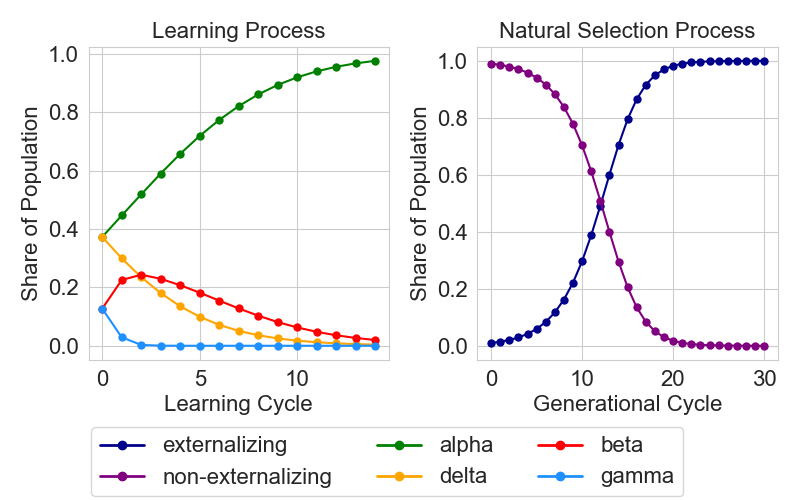
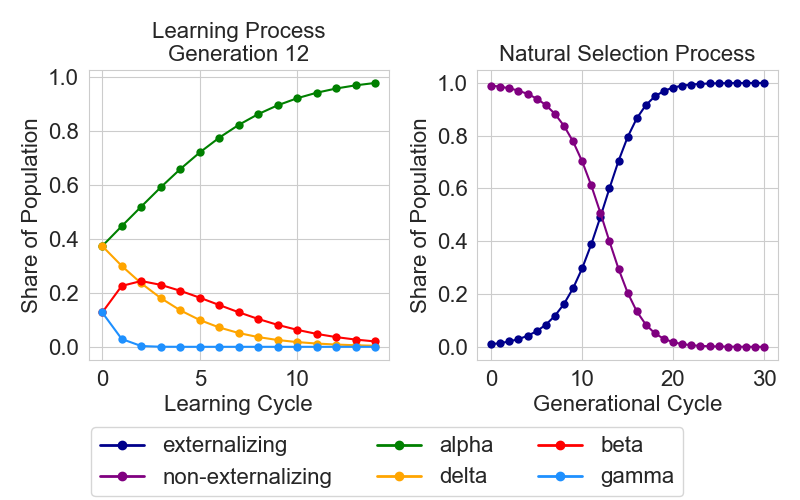
adjusted model 2 figures

Changed region(s): [[0.5, 0.03, 0.9688, 0.72], [0.0, 0.09, 0.5, 0.72], [0.0625, 0.66, 0.0938, 0.72]]

diff --git a/src/visualization_2.py b/src/visualization_2.py
@@ -1,25 +1,22 @@
-
 import pandas as pd
 import seaborn as sns
 import matplotlib.pyplot as plt
-from matplotlib.patches import Patch
 from matplotlib.lines import Line2D
 import os
-import model_2
 import re
 
 plt.rcParams.update({
-    'font.size': 16,  # Base font size
-    'axes.titlesize': 16,  # Title font size
-    'axes.labelsize': 16,  # Axis label font size
-    'xtick.labelsize': 16,  # X tick label font size
-    'ytick.labelsize': 16,  # Y tick label font size
-    'legend.fontsize': 16,  # Legend font size
+    'font.size': 16,
+    'axes.titlesize': 16,
+    'axes.labelsize': 16,
+    'xtick.labelsize': 16,
+    'ytick.labelsize': 16,
+    'legend.fontsize': 16,
 })
 
 COLOR_DICT = {
     "alpha": "green",
-    "beta": "red", 
+    "beta": "red",
     "gamma": "dodgerblue",
     "delta": "orange",
     "externalizers": "darkblue",
@@ -27,13 +24,10 @@ COLOR_DICT = {
 }
 
 def read_data(csvpath="/../data/ABM_base_simulation.csv"):
-    # Read the file
     file_dir = os.path.dirname(os.path.realpath(__file__))
-    csv_file = file_dir+csvpath
-    df = pd.read_csv(csv_file, dtype=str)
-
-    # Convert to numeric
+    df = pd.read_csv(file_dir + csvpath, dtype=str)
     df = df.loc[2:len(df)]
+
     for col in df.columns:
         try:
             df[col] = pd.to_numeric(df[col])
@@ -43,189 +37,148 @@ def read_data(csvpath="/../data/ABM_base_simulation.csv"):
     index_colnames = ["simulation", "generation", "learning_step"]
     df.rename(columns=dict(zip(df.columns[:3], index_colnames)), inplace=True)
     df.set_index(index_colnames, inplace=True)
-    
+
     cols = []
-    for i in range(int(len(df.columns)/2)):
+    half = int(len(df.columns) / 2)
+    for i in range(half):
         for attr in ["externalization", "behavior"]:
             cols.append((i, attr))
     df.columns = pd.MultiIndex.from_tuples(cols)
 
     return df
 
-def extract_baseabm_list_from_significance_results():
+def extract_benchmark_list(group_size, mixed):
     file_dir = os.path.dirname(os.path.realpath(__file__))
-    with open(file_dir+"/../data/significance_test_results.txt", 'r') as file:
-        content = file.read()
-    
-    # Find the benchmark results line (the longer list)
-    benchmark_pattern = r'Benchmark results:\s*\[([^\]]+)\]'
-    match = re.search(benchmark_pattern, content)
-    
-    # Extract the numbers string and split by comma
-    numbers_str = match.group(1)
-    # Convert to list of integers
-    numbers_list = [int(x.strip()) for x in numbers_str.split(',')]
-    return numbers_list
+    path = file_dir + "/../data/significance_test_results.txt"
+    with open(path, "r") as f:
+        content = f.read()
 
-def visualize_base_result_vs_fitness_irrelevant(filename):
-    df = read_data(csvpath="/../data/"+filename)
-    
+    blocks = content.split("Significance Test Results")
+    blocks = [b.strip() for b in blocks if b.strip()]
+
+    # Build selector string
+    if mixed:
+        key = f"population size {group_size} mixed:"
+    else:
+        key = f"population size {group_size}:"
+
+    # Select block
+    target = None
+    for b in blocks:
+        if key in b:
+            target = b
+            break
+    if target is None:
+        raise ValueError(f"Requested block not found for key '{key}'")
+
+    # Extract benchmark list
+    match = re.search(r'Benchmark results:\s*\[([^\]]+)\]', target)
+    if not match:
+        raise ValueError("Benchmark list not found in block")
+
+    nums = match.group(1).split(',')
+    return [int(x.strip()) for x in nums]
+
+def compute_behavior_summary(df, behaviors):
     max_sim = int(df.reset_index()["simulation"].max())
-    final_ext = []
-    for simulation in range(max_sim+1):
-        max_gen_in_sim = int(df.loc[pd.IndexSlice[simulation, :, :]].reset_index()["generation"].max())
-        number_ext = df.loc[(simulation, max_gen_in_sim, 0), pd.IndexSlice[:, "externalization"]].sum()
-        final_ext.append(number_ext)
-    
-    final_trait_a = extract_baseabm_list_from_significance_results()
-
     max_lst = int(df.reset_index()["learning_step"].max())
-    learning_process_df = pd.DataFrame(columns=["learning_step", "behavior", "mean", "97.5", "2.5"])
-    behaviors = ["alpha", "beta", "gamma", "delta"]
-    for behavior in behaviors:
-        for learning_step in range(max_lst+1):
-            list_dict = {key: [] for key in behaviors}
-            for simulation in range(max_sim+1):
-                for key in behaviors:
-                    list_dict[key].append((df.loc[(simulation, 0, learning_step), pd.IndexSlice[:, "behavior"]] == key).sum())
-            for key in behaviors:
-                learning_process_df.loc[len(learning_process_df)] = [
-                    learning_step, key, pd.Series(list_dict[key]).mean(), pd.Series(list_dict[key]).quantile(0.975), pd.Series(list_dict[key]).quantile(0.025)
-                ]
 
+    summary = []
+    for step in range(max_lst + 1):
+        counts = {b: [] for b in behaviors}
+        for s in range(max_sim + 1):
+            row = df.loc[(s, 0, step), pd.IndexSlice[:, "behavior"]]
+            for b in behaviors:
+                counts[b].append((row == b).sum())
+
+        for b in behaviors:
+            series = pd.Series(counts[b])
+            summary.append([step, b, series.mean(), series.quantile(0.975), series.quantile(0.025)])
+
+    return pd.DataFrame(summary, columns=["learning_step", "behavior", "mean", "97.5", "2.5"])
+
+def compute_final_externalizers(df):
+    max_sim = int(df.reset_index()["simulation"].max())
+    results = []
+    for s in range(max_sim + 1):
+        gens = df.loc[pd.IndexSlice[s, :, :]].reset_index()["generation"]
+        max_gen = int(gens.max())
+        count = df.loc[(s, max_gen, 0), pd.IndexSlice[:, "externalization"]].sum()
+        results.append(count)
+    return results
+
+def plot_shared(learning_df, final_ext, final_A, max_hist, binwidth, ncols):
     sns.set_style("whitegrid")
-    
-    fig, axes = plt.subplots(1, 3, figsize=(12, 5))
+    fig, axes = plt.subplots(1, ncols, figsize=(4*ncols, 5))
     axes = axes.flatten()
+
+    behaviors = ["alpha", "beta", "gamma", "delta"]
 
     axes[0].set_ylabel("Number of Agents")
     axes[0].set_xlabel("Learning Cycle")
+    sns.lineplot(data=learning_df, x="learning_step", y="mean",
+                 hue="behavior", marker='o', palette=COLOR_DICT,
+                 markeredgewidth=0, ax=axes[0])
+    sns.lineplot(data=learning_df, x="learning_step", y="97.5",
+                 hue="behavior", linestyle='--', palette=COLOR_DICT,
+                 markeredgewidth=0, ax=axes[0])
+    sns.lineplot(data=learning_df, x="learning_step", y="2.5",
+                 hue="behavior", linestyle='--', palette=COLOR_DICT,
+                 markeredgewidth=0, ax=axes[0])
+
     axes[1].set_ylabel("Number of Simulations")
     axes[1].set_xlabel("Final Externalizers")
-    axes[2].set_ylabel("Number of Simulations")
-    axes[2].set_xlabel("Final Trait A Agents")
+    sns.histplot(x=pd.Series(final_ext), stat="count", binwidth=binwidth, color="gray", kde=False, ax=axes[1])
+    axes[1].set_xlim(0, max_hist)
 
-    sns.lineplot(data=learning_process_df, x="learning_step", y="mean", hue="behavior", 
-                        marker='o', palette=COLOR_DICT, markeredgewidth=0, ax=axes[0])
-    sns.lineplot(data=learning_process_df, x="learning_step", y="97.5", hue="behavior",
-                        linestyle='--', palette=COLOR_DICT, markeredgewidth=0, ax=axes[0])
-    sns.lineplot(data=learning_process_df, x="learning_step", y="2.5", hue="behavior",
-                        linestyle='--', palette=COLOR_DICT, markeredgewidth=0, ax=axes[0])
-    sns.histplot(x=pd.Series(final_ext), stat="count", bins=10, ax=axes[1], color="gray", kde=False)
-    sns.histplot(x=pd.Series(final_trait_a), stat="count", bins=10, ax=axes[2], color="gray", kde=False)
+    if final_A:
+        axes[2].set_ylabel("Number of Simulations")
+        axes[2].set_xlabel("Final Trait A Agents")
+        sns.histplot(x=pd.Series(final_A), stat="count", binwidth=binwidth, color="gray", kde=False, ax=axes[2])
+        axes[2].set_xlim(0, max_hist)
 
-    # Remove legends from individual plots
     for ax in axes:
-        if hasattr(ax, 'get_legend') and ax.get_legend() is not None:
+        if ax.get_legend() is not None:
             ax.get_legend().remove()
 
-    # Create custom legend elements
     handles = []
-    for behavior in behaviors:
-        # Line marker for line plots
-        line1 = Line2D([0], [0], color=COLOR_DICT[behavior], marker='o', linestyle='-', linewidth=2, markersize=6)
-        line2 = Line2D([0], [0], color=COLOR_DICT[behavior], marker=None, linestyle='--', linewidth=2, markersize=6)
+    for b in behaviors:
+        handles.append(Line2D([0], [0], color=COLOR_DICT[b], marker='o', linestyle='-', linewidth=2, markersize=6))
+        handles.append(Line2D([0], [0], color=COLOR_DICT[b], linestyle='--', linewidth=2))
 
-        handles.append((line1, f"{behavior} (mean)"))
-        handles.append((line2, f"{behavior} (95% CI)"))
+    labels = []
+    for b in behaviors:
+        labels.append(f"{b} (mean)")
+        labels.append(f"{b} (2.5% and 97.5%)")
 
-    # Combine them into a single legend
-    fig.legend(
-        handles=[h[0] for h in handles], 
-        labels=[h[1] for h in handles],
-        ncol=2,
-        # bbox_to_anchor=(0.6, 0.2)
-        bbox_to_anchor=(0.7, 0.3)
-    )
-
+    legend_placement = (0.7, 0.3) if ncols==3 else (1.0, 0.3)
+    fig.legend(handles=handles, labels=labels, ncol=2, bbox_to_anchor=legend_placement)
     fig.tight_layout(pad=3.0)
     plt.subplots_adjust(bottom=0.4)
-
     return fig
 
-def visualize_robustness(filename):
-    df = read_data(csvpath="/../data/"+filename)
-    
-    max_gen = int(df.reset_index()["generation"].max())
-    max_sim = int(df.reset_index()["simulation"].max())
-    final_ext = []
+def visualize_vs_fitness_irrelevant(filename, binwidth, group_size, mixed):
+    df = read_data(csvpath="/../data/" + filename)
+    learning_df = compute_behavior_summary(df, ["alpha", "beta", "gamma", "delta"])
+    final_ext = compute_final_externalizers(df)
+    final_A = extract_benchmark_list(group_size=group_size, mixed=mixed)
+    return plot_shared(learning_df, final_ext, final_A, group_size, binwidth, ncols=3)
 
-    for simulation in range(max_sim+1):
-        max_gen_in_sim = int(df.loc[pd.IndexSlice[simulation, :, :]].reset_index()["generation"].max())
-        number_ext = df.loc[(simulation, max_gen_in_sim, 0), pd.IndexSlice[:, "externalization"]].sum()
-        final_ext.append(number_ext)
-
-    max_lst = int(df.reset_index()["learning_step"].max())
-    learning_process_df = pd.DataFrame(columns=["learning_step", "behavior", "mean", "97.5", "2.5"])
-    behaviors = ["alpha", "beta", "gamma", "delta"]
-    for behavior in behaviors:
-        for learning_step in range(max_lst+1):
-            list_dict = {key: [] for key in behaviors}
-            for simulation in range(max_sim+1):
-                for key in behaviors:
-                    list_dict[key].append((df.loc[(simulation, 0, learning_step), pd.IndexSlice[:, "behavior"]] == key).sum())
-            for key in behaviors:
-                learning_process_df.loc[len(learning_process_df)] = [
-                    learning_step, key, pd.Series(list_dict[key]).mean(), pd.Series(list_dict[key]).quantile(0.975), pd.Series(list_dict[key]).quantile(0.025)
-                ]
-
-    sns.set_style("whitegrid")
-    
-    fig, axes = plt.subplots(1, 2, figsize=(8.5, 5))
-    axes = axes.flatten()
-
-    axes[0].set_ylabel("Number of Agents")
-    axes[0].set_xlabel("Learning Cycle")
-    axes[1].set_ylabel("Number of Simulations")
-    axes[1].set_xlabel("Final Externalizers")
-
-    sns.lineplot(data=learning_process_df, x="learning_step", y="mean", hue="behavior", 
-                        marker='o', palette=COLOR_DICT, markeredgewidth=0, ax=axes[0])
-    sns.lineplot(data=learning_process_df, x="learning_step", y="97.5", hue="behavior",
-                        linestyle='--', palette=COLOR_DICT, markeredgewidth=0, ax=axes[0])
-    sns.lineplot(data=learning_process_df, x="learning_step", y="2.5", hue="behavior",
-                        linestyle='--', palette=COLOR_DICT, markeredgewidth=0, ax=axes[0])
-    sns.histplot(x=pd.Series(final_ext), stat="count", bins=10, ax=axes[1], color="gray", kde=False)
-
-    # Remove legends from individual plots
-    for ax in axes:
-        if hasattr(ax, 'get_legend') and ax.get_legend() is not None:
-            ax.get_legend().remove()
-
-    # Create custom legend elements
-    handles = []
-    for behavior in behaviors:
-        # Line marker for line plots
-        line1 = Line2D([0], [0], color=COLOR_DICT[behavior], marker='o', linestyle='-', linewidth=2, markersize=6)
-        line2 = Line2D([0], [0], color=COLOR_DICT[behavior], marker=None, linestyle='--', linewidth=2, markersize=6)
-
-        handles.append((line1, f"{behavior} (mean)"))
-        handles.append((line2, f"{behavior} (95% CI)"))
-
-    # Combine them into a single legend
-    fig.legend(
-        handles=[h[0] for h in handles], 
-        labels=[h[1] for h in handles],
-        ncol=2,
-        # bbox_to_anchor=(0.6, 0.2)
-        bbox_to_anchor=(0.7, 0.3)
-    )
-
-    fig.tight_layout(pad=3.0)
-    plt.subplots_adjust(bottom=0.4)
-
-    return fig
-
+def visualize_two_panels(filename, max_hist, binwidth):
+    df = read_data(csvpath="/../data/" + filename)
+    learning_df = compute_behavior_summary(df, ["alpha", "beta", "gamma", "delta"])
+    final_ext = compute_final_externalizers(df)
+    return plot_shared(learning_df, final_ext, None, max_hist, binwidth, ncols=2)
 
 
 if __name__ == "__main__":
     file_dir = os.path.dirname(os.path.realpath(__file__))
 
-    fig6 = visualize_base_result_vs_fitness_irrelevant("ABM_base_simulation.csv")
+    fig6 = visualize_vs_fitness_irrelevant("ABM_base_simulation.csv", binwidth=10, group_size=100, mixed=False)
     fig6.savefig(file_dir+"/../plots/fig6.png")
 
-    fig7 = visualize_robustness("ABM_mixed_learning_mechanism_simulation.csv")
+    fig7 = visualize_two_panels("ABM_mixed_learning_mechanism_simulation.csv", max_hist=100, binwidth=10)
     fig7.savefig(file_dir+"/../plots/fig7.png")
 
-    fig8 = visualize_robustness("ABM_pop_size_12_simulation.csv")
+    fig8 = visualize_vs_fitness_irrelevant("ABM_pop_size_12_simulation.csv", binwidth=1, group_size=12, mixed=False)
     fig8.savefig(file_dir+"/../plots/fig8.png")

diff --git a/src/statistical_significance.py b/src/statistical_significance.py
@@ -206,10 +206,10 @@ if __name__ == "__main__":
     benchmark12 = simulate_benchmark(sample_size=1000, pop_size=12)
     benchmark8 = simulate_benchmark(sample_size=1000, pop_size=8)
     
-    export_txt = "Significance Test Results Base ABM:\n"
+    export_txt = "Significance Test Results population size 100:\n"
     export_txt += test_for_significance("ABM_base_simulation.csv", pop_size=100, benchmark=benchmark100)
     
-    export_txt += "\nSignificance Test Results for mixed learning mechanism:\n"
+    export_txt += "\nSignificance Test Results population size 100 mixed:\n"
     export_txt += test_for_significance("ABM_mixed_learning_mechanism_simulation.csv", pop_size=100, benchmark=benchmark100)
     
     export_txt += "\nSignificance Test Results population size 12:\n"

diff --git a/src/visualization_1.py b/src/visualization_1.py
@@ -262,7 +262,7 @@ if __name__ == "__main__":
     # FIG 3: Natural Selection Process
     df = read_data("/../data/base_model_simulation.csv")
     panels = {
-        "Learning Process": {"type": "learning_process", "params": {"df": df, "generation": 12}},
+        "Learning Process\nGeneration 12": {"type": "learning_process", "params": {"df": df, "generation": 12}},
         "Natural Selection Process": {"type": "natural_selection", "params": {"df": df}},
     }
     fig = visualize_master(panels)
